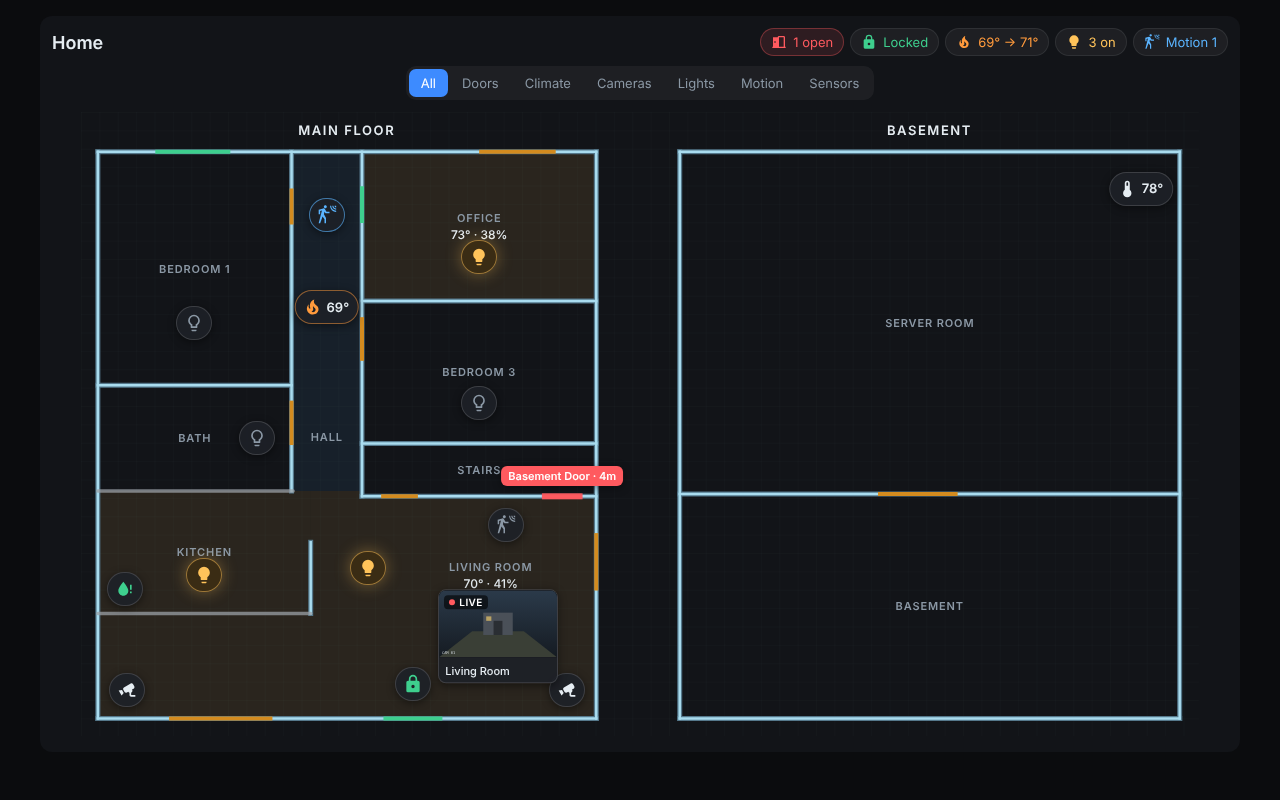
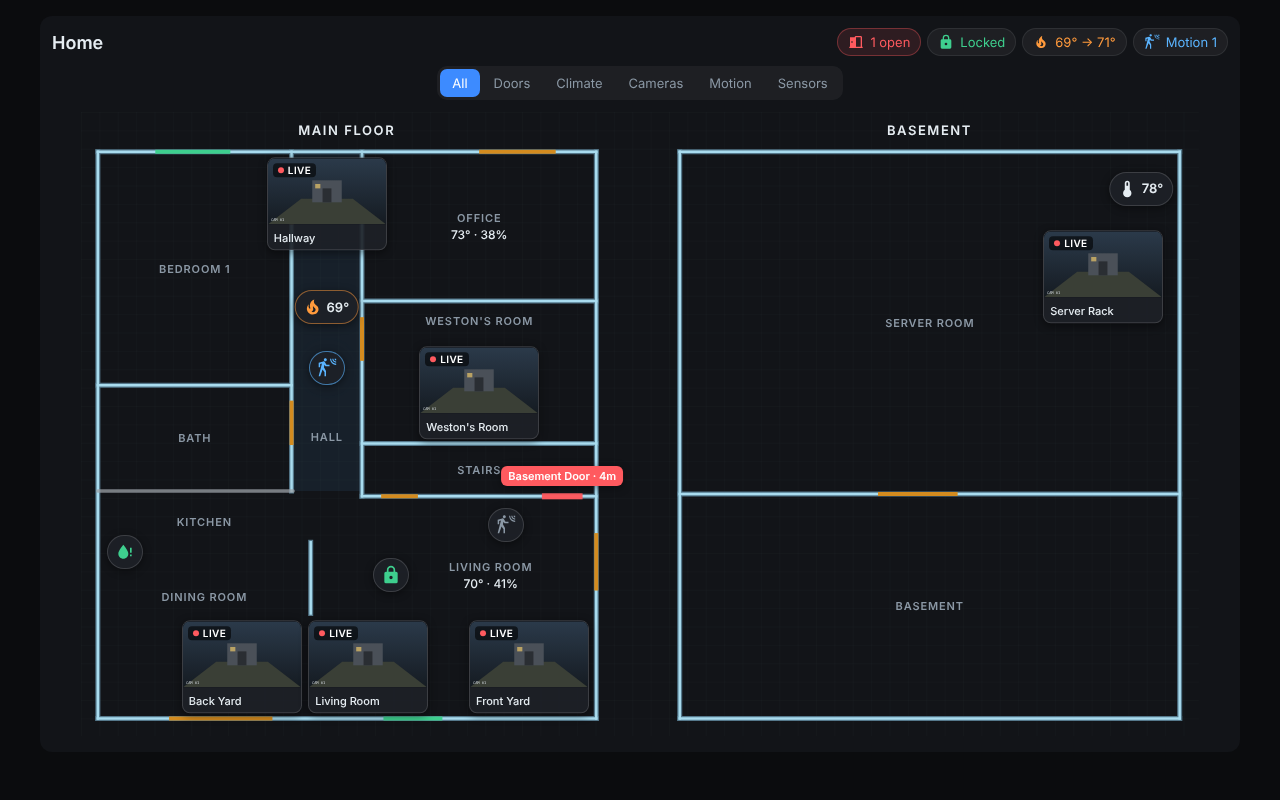
Remove lights, add camera previews, rename Weston's Room, open up dining room

diff --git a/home-view-card.js b/home-view-card.js
@@ -1,4 +1,4 @@
-const VERSION = "0.2.0";
+const VERSION = "0.2.1";
 
 const ICON = {
   door: "M8,3C6.89,3 6,3.89 6,5V21H18V5C18,3.89 17.11,3 16,3H8M8,5H16V19H8V5M13,11V13H15V11H13Z",
@@ -26,7 +26,7 @@ const ICON = {
   help: "M11,18H13V16H11V18M12,2A10,10 0 0,0 2,12A10,10 0 0,0 12,22A10,10 0 0,0 22,12A10,10 0 0,0 12,2M12,20C7.59,20 4,16.41 4,12C4,7.59 7.59,4 12,4C16.41,4 20,7.59 20,12C20,16.41 16.41,20 12,20M12,6A4,4 0 0,0 8,10H10A2,2 0 0,1 12,8A2,2 0 0,1 14,10C14,12 11,11.75 11,15H13C13,12.75 16,12.5 16,10A4,4 0 0,0 12,6Z",
 };
 
-const DEFAULT_PLAN = {view_box:[55,-5,1460,815],stack:{split_x:780,move:[-760,830],below:700},labels:[{text:"Main Floor",x:402,y:18},{text:"Basement",x:1163,y:18}],rooms:[{name:"Bedroom 1",rect:[77,47,330,352]},{name:"Bath",rect:[77,352,330,490]},{name:"Hall",rect:[330,47,422,490],label_at:[376,420]},{name:"Office",rect:[422,47,728,242]},{name:"Bedroom 3",rect:[422,242,728,428]},{name:"Stairs",rect:[422,428,728,497]},{name:"Kitchen",rect:[77,490,355,650]},{name:"Living Room",points:[[355,490],[422,490],[422,497],[728,497],[728,787],[77,787],[77,650],[355,650]],label_at:[590,600]},{name:"Server Room",rect:[837,47,1490,494]},{name:"Basement",rect:[837,494,1490,787]}],walls:[[77,47,728,47],[728,47,728,787],[728,787,77,787],[77,787,77,47],[330,47,330,490],[77,352,330,352],[422,47,422,497],[422,242,728,242],[422,428,728,428],[422,497,728,497],[355,557,355,650],[837,47,1490,47],[1490,47,1490,787],[1490,787,837,787],[837,787,837,47],[837,494,1490,494]],half_walls:[[77,490,332,490],[77,650,355,650]],openings:[{name:"Front Door",type:"door",line:[450,787,527,787]},{name:"Patio Door",type:"door",line:[170,787,305,787]},{name:"Side Door",type:"door",line:[728,545,728,620]},{name:"Bedroom Sliding",type:"door",line:[152,47,250,47]},{name:"Office Window",type:"window",line:[575,47,675,47]},{name:"Bedroom 1 Door",line:[330,95,330,142]},{name:"Bath Door",line:[330,372,330,430]},{name:"Office Door",type:"door",line:[422,92,422,140]},{name:"Bedroom 3 Door",line:[422,263,422,320]},{name:"Closet Door",line:[447,497,495,497]},{name:"Basement Door",type:"door",line:[657,497,710,497]},{name:"Basement Door",line:[1096,494,1200,494]}]};
+const DEFAULT_PLAN = {view_box:[55,-5,1460,815],stack:{split_x:780,move:[-760,830],below:700},labels:[{text:"Main Floor",x:402,y:18},{text:"Basement",x:1163,y:18}],rooms:[{name:"Bedroom 1",rect:[77,47,330,352]},{name:"Bath",rect:[77,352,330,490]},{name:"Hall",rect:[330,47,422,490],label_at:[376,420]},{name:"Office",rect:[422,47,728,242]},{name:"Weston's Room",rect:[422,242,728,428],label_at:[575,268]},{name:"Stairs",rect:[422,428,728,497]},{name:"Kitchen",rect:[77,490,355,650],label_at:[216,530]},{name:"Living Room",points:[[355,490],[422,490],[422,497],[728,497],[728,787],[355,787]],label_at:[590,600]},{name:"Dining Room",rect:[77,650,355,787],label_at:[216,628]},{name:"Server Room",rect:[837,47,1490,494]},{name:"Basement",rect:[837,494,1490,787]}],walls:[[77,47,728,47],[728,47,728,787],[728,787,77,787],[77,787,77,47],[330,47,330,490],[77,352,330,352],[422,47,422,497],[422,242,728,242],[422,428,728,428],[422,497,728,497],[355,557,355,650],[837,47,1490,47],[1490,47,1490,787],[1490,787,837,787],[837,787,837,47],[837,494,1490,494]],half_walls:[[77,490,332,490]],openings:[{name:"Front Door",type:"door",line:[450,787,527,787]},{name:"Patio Door",type:"door",line:[170,787,305,787]},{name:"Side Door",type:"door",line:[728,545,728,620]},{name:"Bedroom Sliding",type:"door",line:[152,47,250,47]},{name:"Office Window",type:"window",line:[575,47,675,47]},{name:"Bedroom 1 Door",line:[330,95,330,142]},{name:"Bath Door",line:[330,372,330,430]},{name:"Office Door",type:"door",line:[422,92,422,140]},{name:"Weston's Room Door",line:[422,263,422,320]},{name:"Closet Door",line:[447,497,495,497]},{name:"Basement Door",type:"door",line:[657,497,710,497]},{name:"Basement Door",line:[1096,494,1200,494]}]};
 
 const OPEN_STATES = new Set(["on", "open", "opening", "closing", "unlocked", "unlocking", "jammed"]);
 const DEAD_STATES = new Set(["unavailable", "unknown"]);

diff --git a/demo/index.html b/demo/index.html
@@ -40,15 +40,12 @@ const states = {
   "binary_sensor.kitchen_leak": st("off", { device_class: "moisture", friendly_name: "Kitchen Leak" }),
   "climate.thermostat": st("heat", { friendly_name: "Thermostat", current_temperature: 69, temperature: 71, hvac_action: "heating" }),
   "lock.front_door": st("locked", { friendly_name: "Front Door Lock" }),
-  "camera.front_door": st("idle", { friendly_name: "Front Door Camera", entity_picture: "cam.svg?cam=front" }),
-  "camera.backyard": st("idle", { friendly_name: "Backyard Camera", entity_picture: "cam.svg?cam=back" }),
-  "camera.living_room_high_resolution_channel": st("streaming", { friendly_name: "Living Room", entity_picture: "cam.svg?cam=living" }),
-  "light.bedroom_1": st("off", { friendly_name: "Bedroom 1 Light" }),
-  "light.bathroom": st("off", { friendly_name: "Bathroom Light" }),
-  "light.office": st("on", { friendly_name: "Office Light", brightness: 180 }),
-  "light.bedroom_3": st("off", { friendly_name: "Bedroom 3 Light" }),
-  "light.kitchen": st("on", { friendly_name: "Kitchen Light", brightness: 255 }),
-  "light.living_room": st("on", { friendly_name: "Living Room Light", brightness: 140 }),
+  "camera.hallway_high_resolution_channel": st("streaming", { friendly_name: "Hallway", entity_picture: "cam.svg?cam=hallway" }),
+  "camera.westons_room_high_resolution_channel": st("streaming", { friendly_name: "Weston's Room", entity_picture: "cam.svg?cam=westons_room" }),
+  "camera.back_yard_high_resolution_channel": st("streaming", { friendly_name: "Back Yard", entity_picture: "cam.svg?cam=back_yard" }),
+  "camera.living_room_high_resolution_channel": st("streaming", { friendly_name: "Living Room", entity_picture: "cam.svg?cam=living_room" }),
+  "camera.front_yard_high_resolution_channel": st("streaming", { friendly_name: "Front Yard", entity_picture: "cam.svg?cam=front_yard" }),
+  "camera.server_rack_high_resolution_channel": st("streaming", { friendly_name: "Server Rack", entity_picture: "cam.svg?cam=server_rack" }),
   "sensor.temp_livingrm_temperature": st("70.2", { device_class: "temperature", unit_of_measurement: "°F" }),
   "sensor.temp_livingrm_humidity": st("41", { device_class: "humidity", unit_of_measurement: "%" }),
 };
